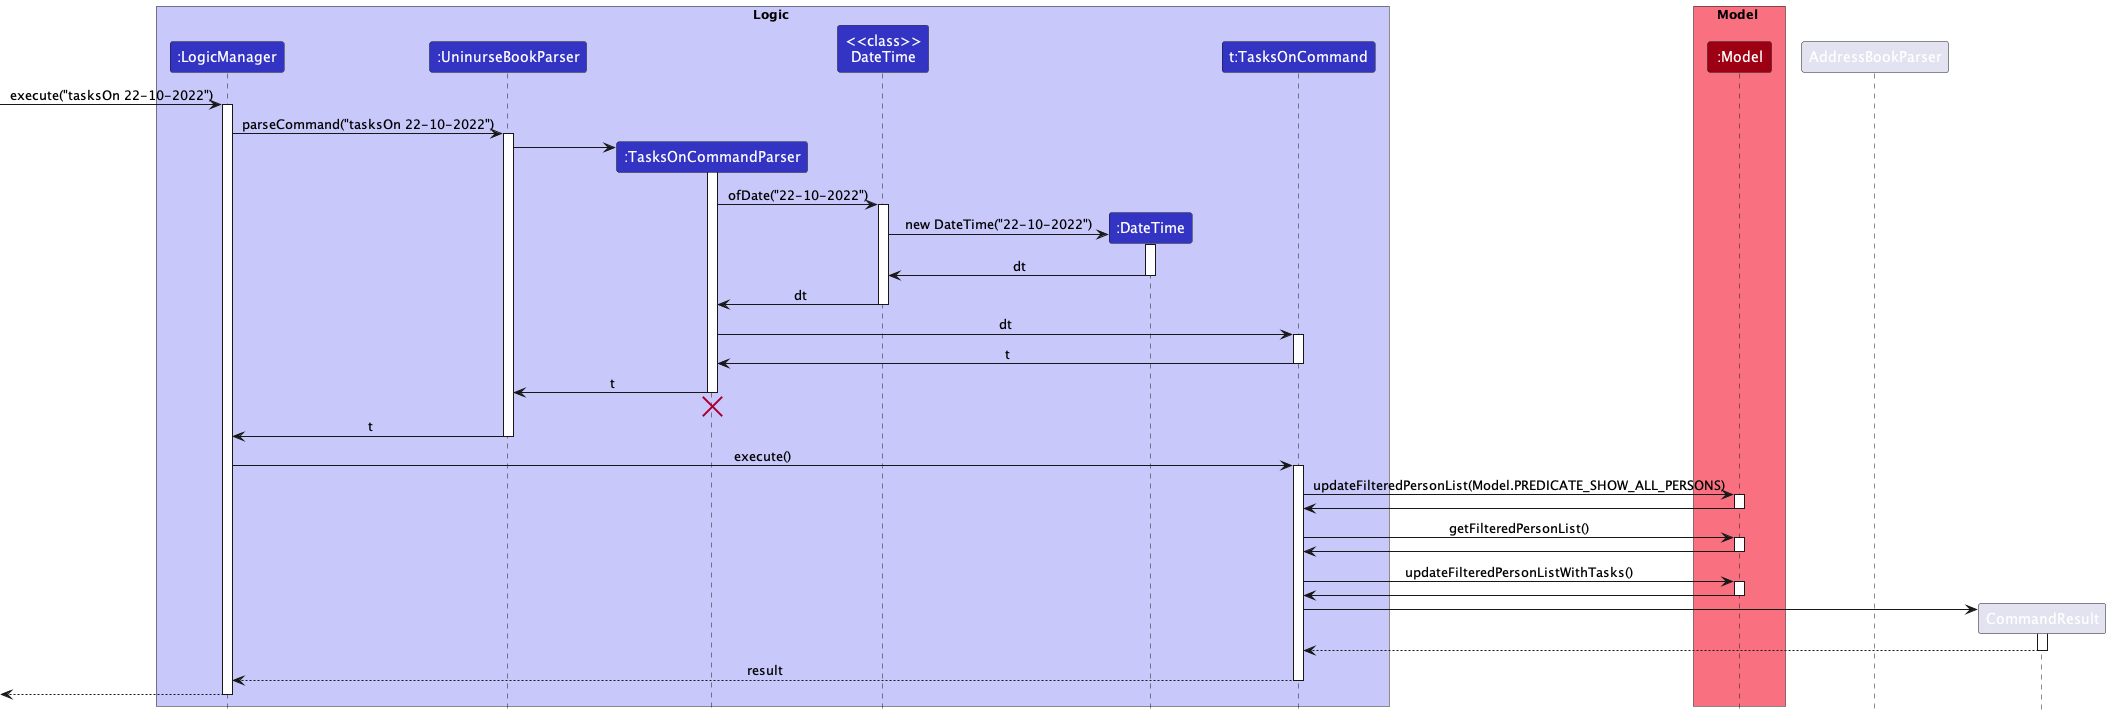
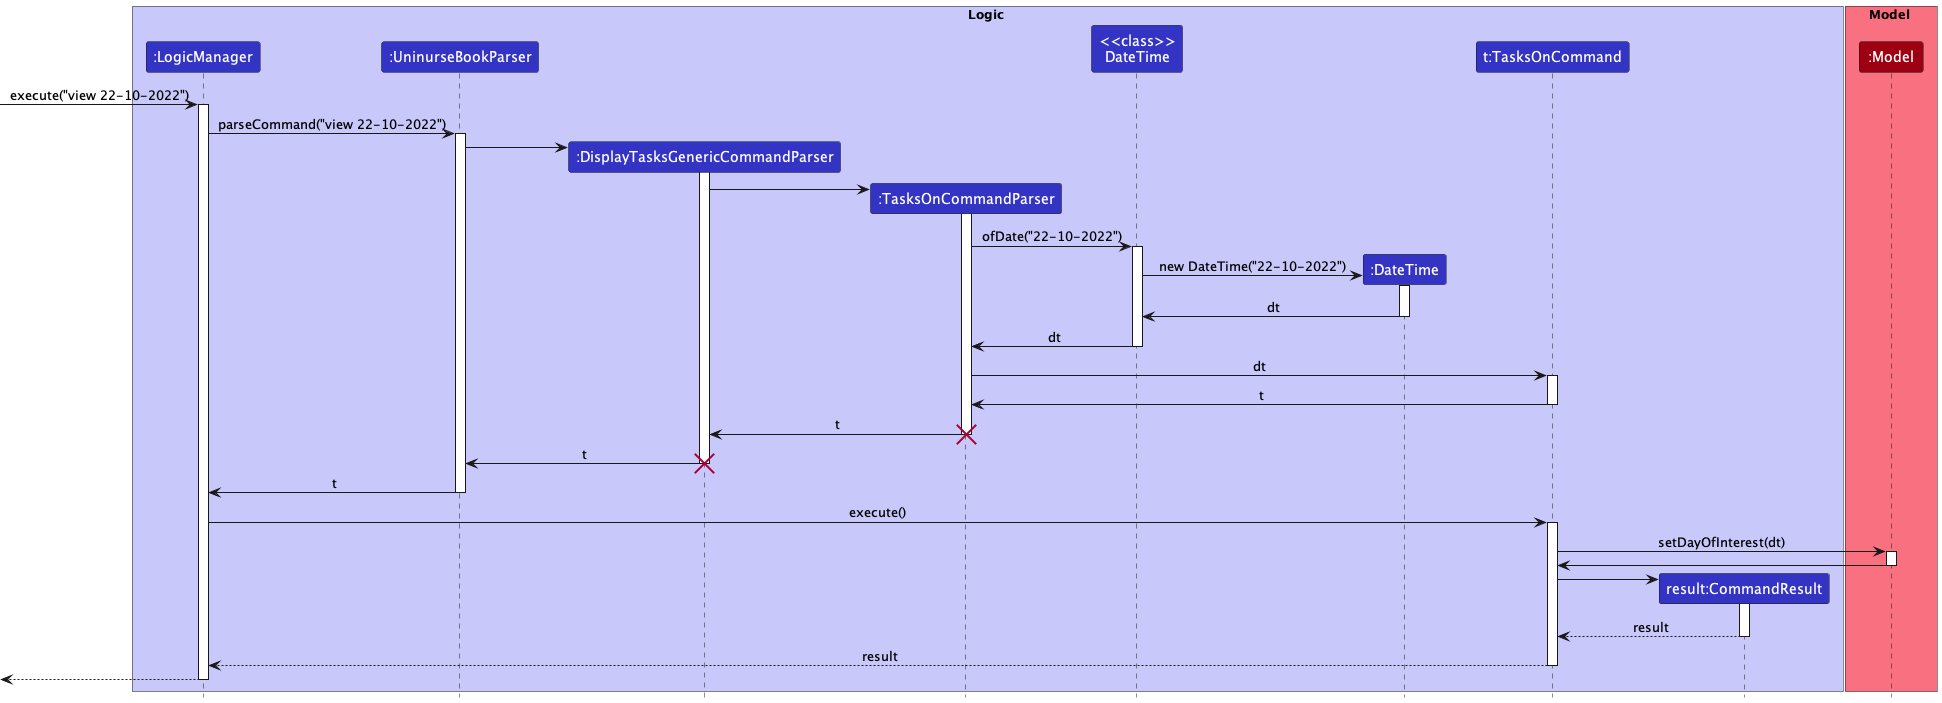
Fix viewing tasks on a particular day sequence diagram

diff --git a/docs/DeveloperGuide.md b/docs/DeveloperGuide.md
@@ -205,11 +205,10 @@ The following sequence diagrams illustrates the interactions between the `UI`, `
 
 #### Implementation
 
-The `tasksOn` command parses the user input and generates a `DateTime` object, however the time fields are default values since we only care about the particular Date, the it filters each patient by whether they have a 
-task on the given Date. Each patient themselves filter their TaskList to arrive at the conclusion on whether they have a task on the given Date. Then the Model is set to show the filtered Patients, each with their own TaskList to also 
-only the Tasks on the given Date.
+The `view` command when no flags are present, parses the user input and generates a `TasksOnCommand` object which has a `DateTime` object containing the date the user wants the tasks for. 
+When the command is executed, it sets the model to show only the tasks on the day of interest.
 
-The Sequence diagram below shows the execution of a tasksOn command
+The Sequence diagram below shows the execution of a view command with no flags.
 
 ![tasksOnSequenceDiagram](images/TasksOnSequenceDiagram.png)
 
